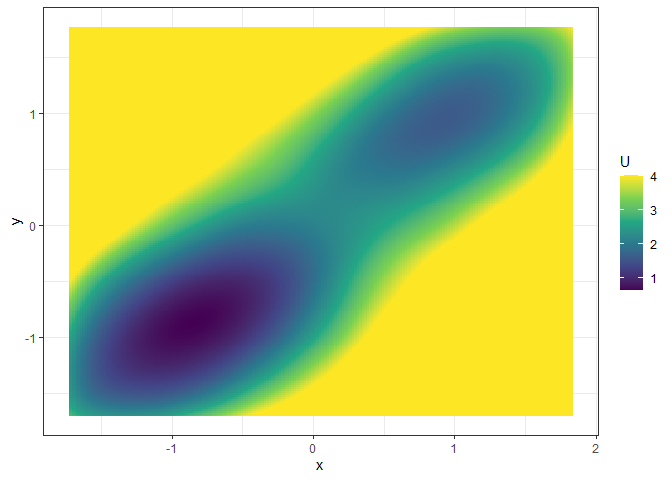
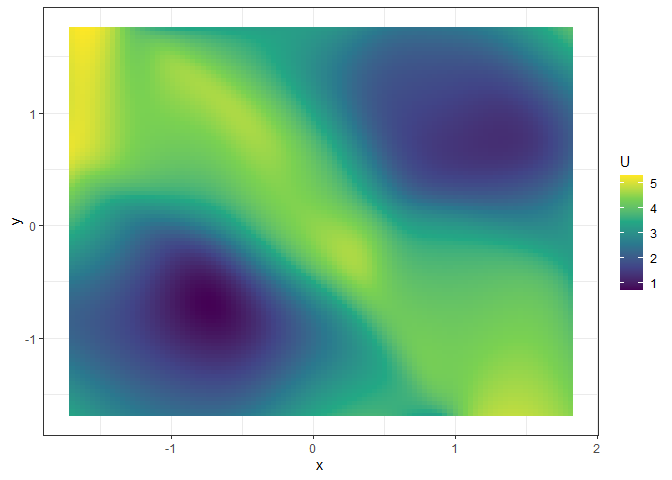
26.3.24.1
- Refactor error handling and improve user messages with the help of Copilot
- Removed the `glue` package from imports and replaced it with `cli` for better error messaging.
- Updated error handling in various functions to use `cli_abort` and `cli_inform` for consistency.
- Added a new `globals.R` file to silence R CMD check notes for non-standard evaluation column names.
- Introduced a new `utils-lims.R` file containing the `determine_lims` function.
- Added unit tests for critical regressions and plotting functions.
- Updated the README and documentation to reflect changes in the workflow and usage.
- Fixed various bugs and improved the overall clarity of user-facing messages.

diff --git a/README.md b/README.md
@@ -11,17 +11,19 @@
 [![R-CMD-check](https://github.com/Sciurus365/fitlandr/actions/workflows/R-CMD-check.yaml/badge.svg)](https://github.com/Sciurus365/fitlandr/actions/workflows/R-CMD-check.yaml)
 <!-- badges: end -->
 
-A toolbox for estimating vector fields from intensive longitudinal data,
-and construct potential landscapes thereafter. The vector fields can be
-estimated with two nonparametric methods: the Multivariate Vector Field
-Kernel Estimator (MVKE) by Bandi & Moloche (2018)
+A toolbox for estimating vector fields from intensive longitudinal data
+and constructing potential landscapes. Vector fields can be estimated
+with two nonparametric methods: the Multivariate Vector Field Kernel
+Estimator (MVKE) by Bandi & Moloche (2018)
 <https://doi.org/10.1017/S0266466617000305> and the Sparse Vector Field
 Consensus (SparseVFC) algorithm by Ma et al. (2013)
-<https://doi.org/10.1016/j.patcog.2013.05.017>. The potential landscapes
-can be constructed with a simulation-based approach with the `simlandr`
-package (Cui et al., 2021) <https://doi.org/10.31234/osf.io/pzva3>, or
-the Bhattacharya et al. (2011) method for path integration
-<https://doi.org/10.1186/1752-0509-5-85>.
+<https://doi.org/10.1016/j.patcog.2013.05.017>.
+
+In the current recommended workflow, landscapes are built from the
+estimated vector field by numerically solving for the steady-state
+distribution with a finite-difference method, and then transforming this
+distribution into potential values. Earlier wrapper-based routes (e.g.,
+the previous `pathB`/`simlandr`-based workflow) are deprecated.
 
 ## Installation
 
@@ -48,10 +50,9 @@ ggplot(data = single_output_grad %>% as_tibble()) +
   theme_bw()
 ```
 
-<img src="man/figures/README-unnamed-chunk-2-1.png" width="100%" />
+<img src="man/figures/README-unnamed-chunk-2-1.png" alt="" width="100%" />
 
-Fit the vector field with MVKE (see `?MVKE` for the explanations of
-parameters):
+Fit the vector field with MVKE (see `?MVKE` for parameter details):
 
 ``` r
 library(fitlandr)
@@ -59,23 +60,30 @@ v2 <- fit_2d_vf(single_output_grad, x = "x", y = "y", method = "MVKE")
 plot(v2)
 ```
 
-<img src="man/figures/README-unnamed-chunk-3-1.png" width="100%" />
+<img src="man/figures/README-unnamed-chunk-3-1.png" alt="" width="100%" />
+
+For intensive longitudinal psychological data, `method = "MVKE"` is the
+preferred default because it typically gives more realistic drift
+estimates for observations farther from equilibrium regions (basins).
 
 Fit the potential landscape:
 
+The current `make_2d_ld()` pipeline takes the fitted vector field and
+computes a steady-state distribution numerically using a finite-
+difference scheme, then converts it to a potential landscape.
+
 ``` r
-future::plan("multisession")
 set.seed(1614)
-l2 <- fit_3d_vfld(v2, .sim_vf_options = sim_vf_options(chains = 16, stepsize = 1, forbid_overflow = TRUE), .simlandr_options = simlandr_options(adjust = 5, Umax = 4))
-#> ℹ Simulating the model✔ Simulating the model [28.8s]
-#> ℹ Constructing the landscape✔ Constructing the landscape [2.5s]
+l2 <- make_2d_ld(v2, linear_interp = FALSE, n_grid = 100)
+#> ℹ Setting up grid and pre-calculating fields...✔ Setting up grid and pre-calculating fields... [8.1s]
+#> ℹ Building sparse matrix representation...✔ Building sparse matrix representation... [326ms]
+#> ℹ Solving for steady-state distribution...✔ Solving for steady-state distribution... [72ms]
 plot(l2, 2)
 ```
 
-<img src="man/figures/README-unnamed-chunk-4-1.png" width="100%" />
+<img src="man/figures/README-unnamed-chunk-4-1.png" alt="" width="100%" />
 
 ``` r
 # equivalent:
-# s2 <- sim_vf(v2, chains = 16, stepsize = 1, forbid_overflow = TRUE)
-# l2 <- simlandr::make_3d_static(s2, x = "x", y = "y", lims = v2$lims, adjust = 5, Umax = 4)
+# l2 <- make_2d_ld(v2, linear_interp = FALSE)
 ```

diff --git a/NEWS.md b/NEWS.md
@@ -1,3 +1,12 @@
+# fitlandr 0.1.1.9000
+
+- Fixed a plotting bug in `plot.cv_vectorfield()`.
+- Fixed `fit_2d_ld(..., vector_position = "middle")` so it works correctly.
+- Improved consistency and clarity of user-facing messages and error reporting across core workflows.
+- Updated examples to use the current recommended landscape workflow (`make_2d_ld()`).
+- Fixed a runtime error in `summary.bootstrap_2d_ld()` when filtering minor minima.
+- Fixed additional `summary.bootstrap_2d_ld()` runtime errors introduced by NSE handling changes.
+
 # fitlandr 0.1.1
 
 - Added the `fit_2d_ld()` function to fit the landscape for 1D data using the MVKE algorithm and simple integration.
